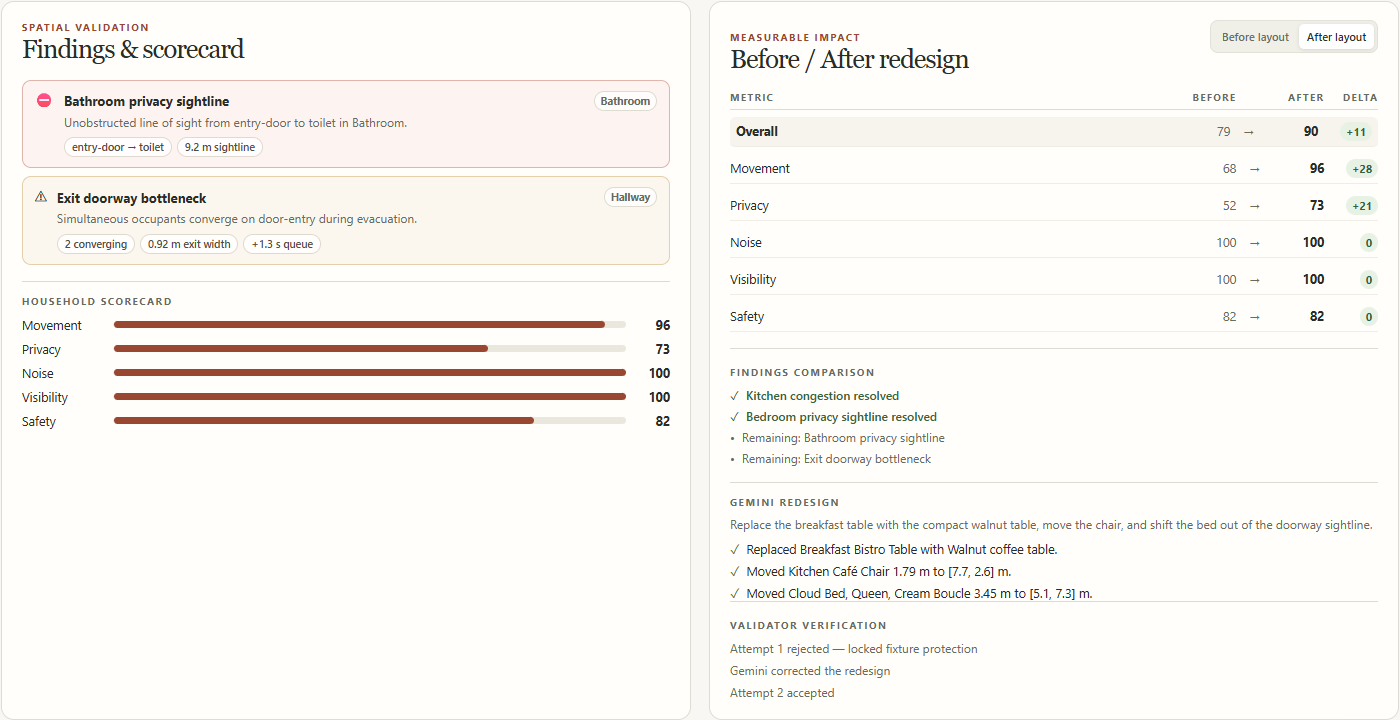
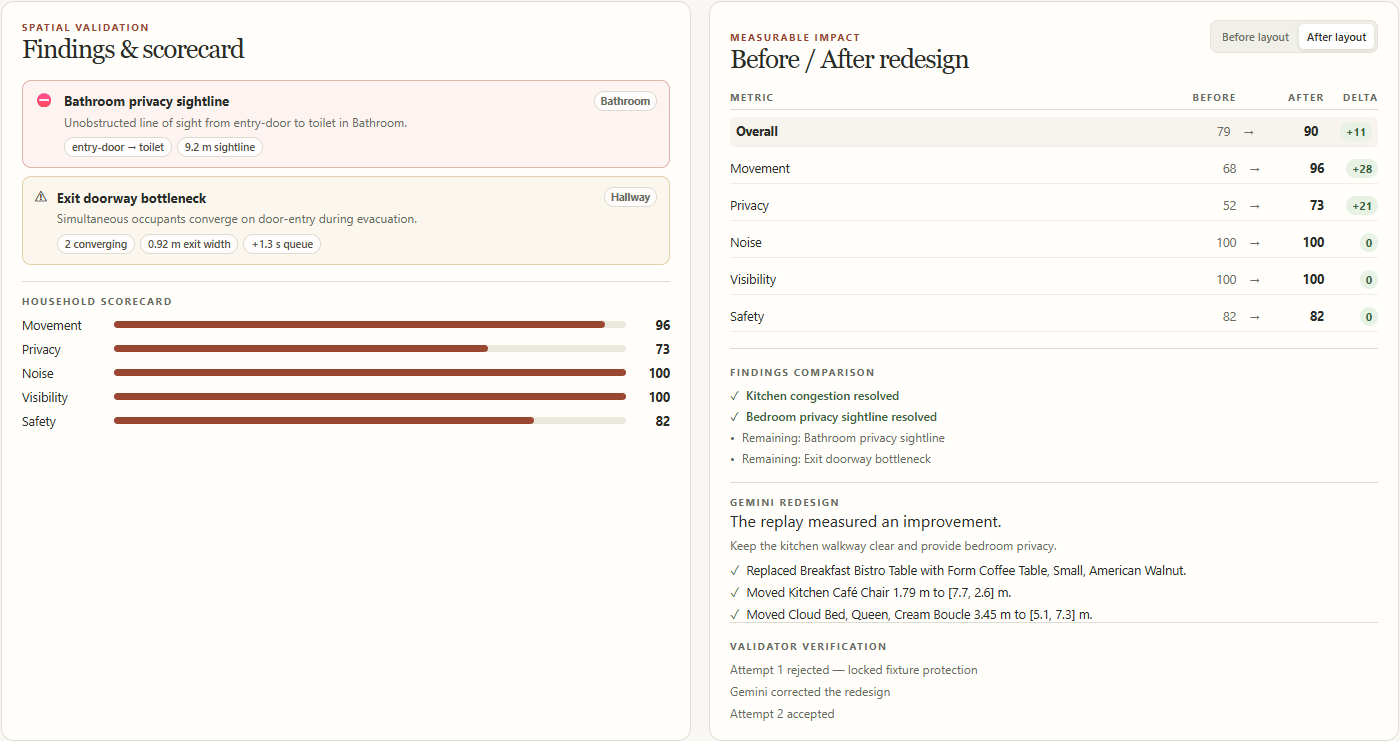
docs: record measured replay and exact Shopify test payloads

diff --git a/docs/brief-acceptance.md b/docs/brief-acceptance.md
@@ -11,7 +11,7 @@ This maps the 「步驟」 section of the [Hackathon idea brief](https://docs.go
 | 使用 Shopify 上的商品 | From Design, browse two matching alternatives and request a proposal. From Studio, Add or Swap also accepts a live variant. Approve a choice to adopt the merchant identity, dimensions and model. Unused products stay in the shortlist. A changed offer requires review, and missing delivery stays unknown. Merchant-specific GLBs render where supplied, with a furniture-type fallback. | `src/shopify/live-candidates.test.js`, `e2e/live-shopify-candidates.spec.js`, `e2e/shopify.spec.js` |
 | 模擬出房子 | In Explore room, inspect the home in first person, Orbit or overhead. Use **Find address**, enter a U.S. address, UTC time and the plan’s compass bearing. Compare morning and afternoon sun direction. Comparisons retain the original environment snapshot. Missing weather or orientation is identified in the panel. | `e2e/whole-home.spec.js`, `e2e/environment.spec.js`, `src/environment/environment.test.js`, `redesign-replay.test.js` |
 | 編輯房子 | Use **Try blocked-route replay demo → Save and continue → Explore room → Capture baseline**. Choose **Edit a selected area**, draw around the Bedroom sofa or choose Bedroom, enter a doorway-clearance instruction and preview the ScenePatch. Approval moves the sofa, reruns the approved schedule and records one undoable edit. A locked, out-of-region or stale move is rejected. | `e2e/studio-replay.spec.js`, `src/agents/replay-suggestion.test.js` |
-| 小人模擬生活、壓力測試 | In the sample whole home, run **Morning Routine**, **Dinner Party** with eight guests, or **Fire Emergency**. Follow 3D avatars and routes, inspect blockages and congestion, and review evacuation paths. The findings identify household members when the measurement identifies them. | `e2e/simulation-playback.spec.js`, `e2e/twin-golden-path.spec.js`, `life-simulation.test.js` |
+| 小人模擬生活、壓力測試 | In the sample whole home, run **Morning Routine**, **Dinner Party** with eight guests, or **Fire Emergency**. Follow 3D avatars and routes, inspect blockages and congestion, and review evacuation paths. The findings identify household members when the measurement identifies them. Morning Routine, Normal Day and the saved household routine support redesign comparisons. Dinner Party and Fire Emergency run their own stress scenarios. | `e2e/simulation-playback.spec.js`, `e2e/twin-golden-path.spec.js`, `life-simulation.test.js` |
 | 物理部分、使用者抉擇是否再依此修改房間布局 | Inspect TV occlusion, viewing angle and apparent screen width, privacy sightlines, WFH/TV noise or glare. Generate a redesign, review the proposed actions, approve and toggle Before/After. Measurements drive the result, including unchanged or worse layouts. Simulated noise, sightlines and glare are approximations. | `spatial-validators.test.js`, `redesign-replay.test.js`, `e2e/demo-controls.spec.js`, `e2e/studio-replay.spec.js` |
 | 購買佈件 → 可以全屋結帳 | Save the room, select variants and quantities, then use checkout for all selected merchants. Two items from one merchant share one checkout. A second merchant receives its own checkout. Repricing, stock loss or failure blocks the affected handoff. | `src/shopify/shopify-api.test.js`, `e2e/shopify.spec.js`, `e2e/integrated-shopify.spec.js` |
 
@@ -25,7 +25,7 @@ A models-only search on November 21, 2026 returned eight alternatives. Refreshin
 
 ## Measured redesign and grouped checkout
 
-In a sample-home Chrome run, the first Gemini fixture tried to move a locked toilet. Spatial validation rejected it. Dismissing the corrected preview, or refreshing its chosen variant after stock ran out, left the entire saved project unchanged. After stock was restored, the approved redesign improved the measured overall score from 79 to 90, movement from 68 to 96 and privacy from 52 to 73. The bathroom sightline and exit bottleneck remained visible. The simulator, renderer, persistence and checkout adapter ran locally with controlled provider responses.
+In a sample-home Chrome run, the first Gemini fixture tried to move a locked toilet. Spatial validation rejected it. Dismissing the corrected preview, or refreshing its chosen variant after stock ran out, left the entire saved project unchanged. After stock was restored, the approved redesign improved the measured overall score from 79 to 90, movement from 68 to 96 and privacy from 52 to 73. The bathroom sightline and exit bottleneck remained visible. In the separate Bedroom-to-Kitchen fixture, moving the sofa cleared the blocked trip (one failure to zero) and raised the route scenario’s score from 71 to 95. A fresh capture measured the same result. The simulator, renderer, persistence and checkout adapter ran locally with controlled provider responses.
 
 ![Before and after scores for the approved sample-home redesign](measured-redesign.png)
 

diff --git a/README.md b/README.md
@@ -51,7 +51,7 @@ npm run test:e2e -- e2e/shopify.spec.js e2e/live-shopify-candidates.spec.js e2e/
 
 | Check | What the test observes |
 | --- | --- |
-| Shop MCP adapter | A mocked provider receives the exact seller and variant IDs for lookup and cart creation. Two variants at quantities 2 and 1 produce one merchant cart. Mixed-merchant requests, changed prices, unavailable stock, incomplete confirmations and upstream errors exercise the rejection paths. |
+| Shop MCP adapter | A mocked provider receives the exact seller and variant IDs for lookup and cart creation. Two variants at quantities 3 and 1 produce one merchant cart. The mock confirms two exact variant lookups followed by one checkout call. Mixed-merchant requests, changed prices, unavailable stock, incomplete confirmations and upstream errors exercise the rejection paths. |
 | Shopping list in Chrome | Two sellers get separate links. A failed seller leaves the other checkout usable. Reloading and re-saving preserve quantities and the original quote. The test compares captured request bodies and merchant URLs. |
 | Alternatives and assets | Chrome searches multiple variants, leaves unchosen variants out of the scene, requires approval after changed dimensions, and verifies the Three.js mesh, scale, reload and fallback after a model 404. |
 | Household through checkout | The integrated test opens Design, browses two variants, rejects a price change from $120 to $142, approves the refreshed offer, fixes the blocked route from one failure to zero, and checks that the cart contains only the approved SKU at $142 and quantity one. |
